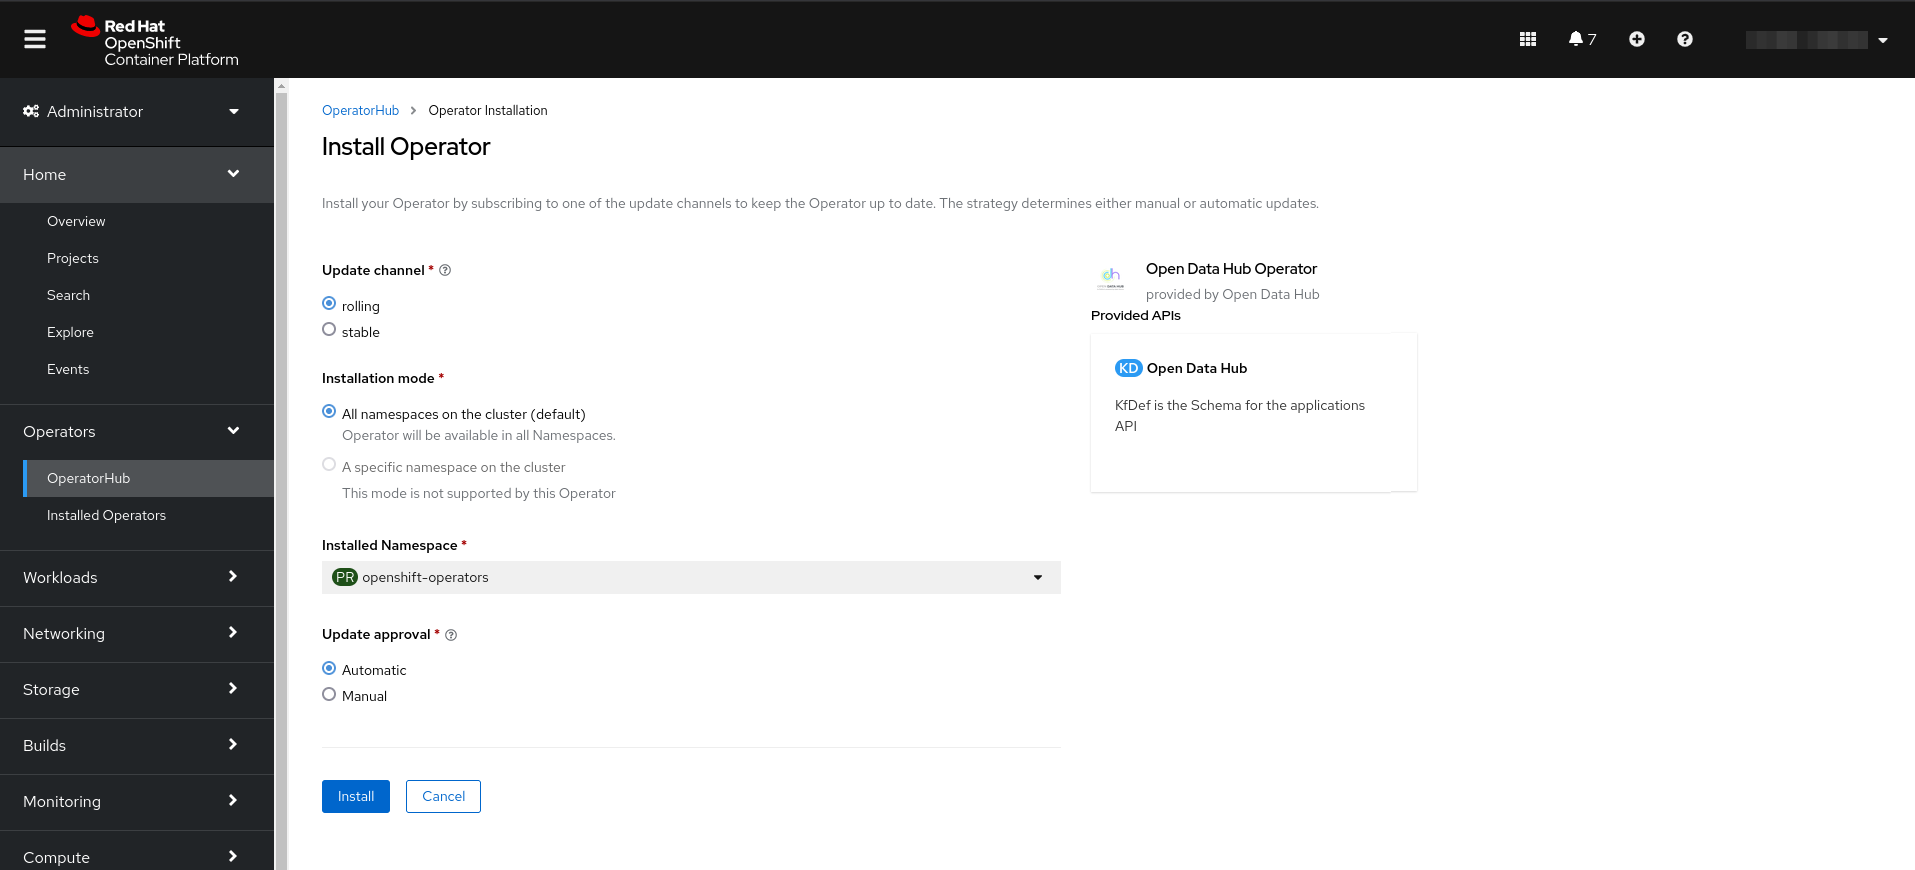
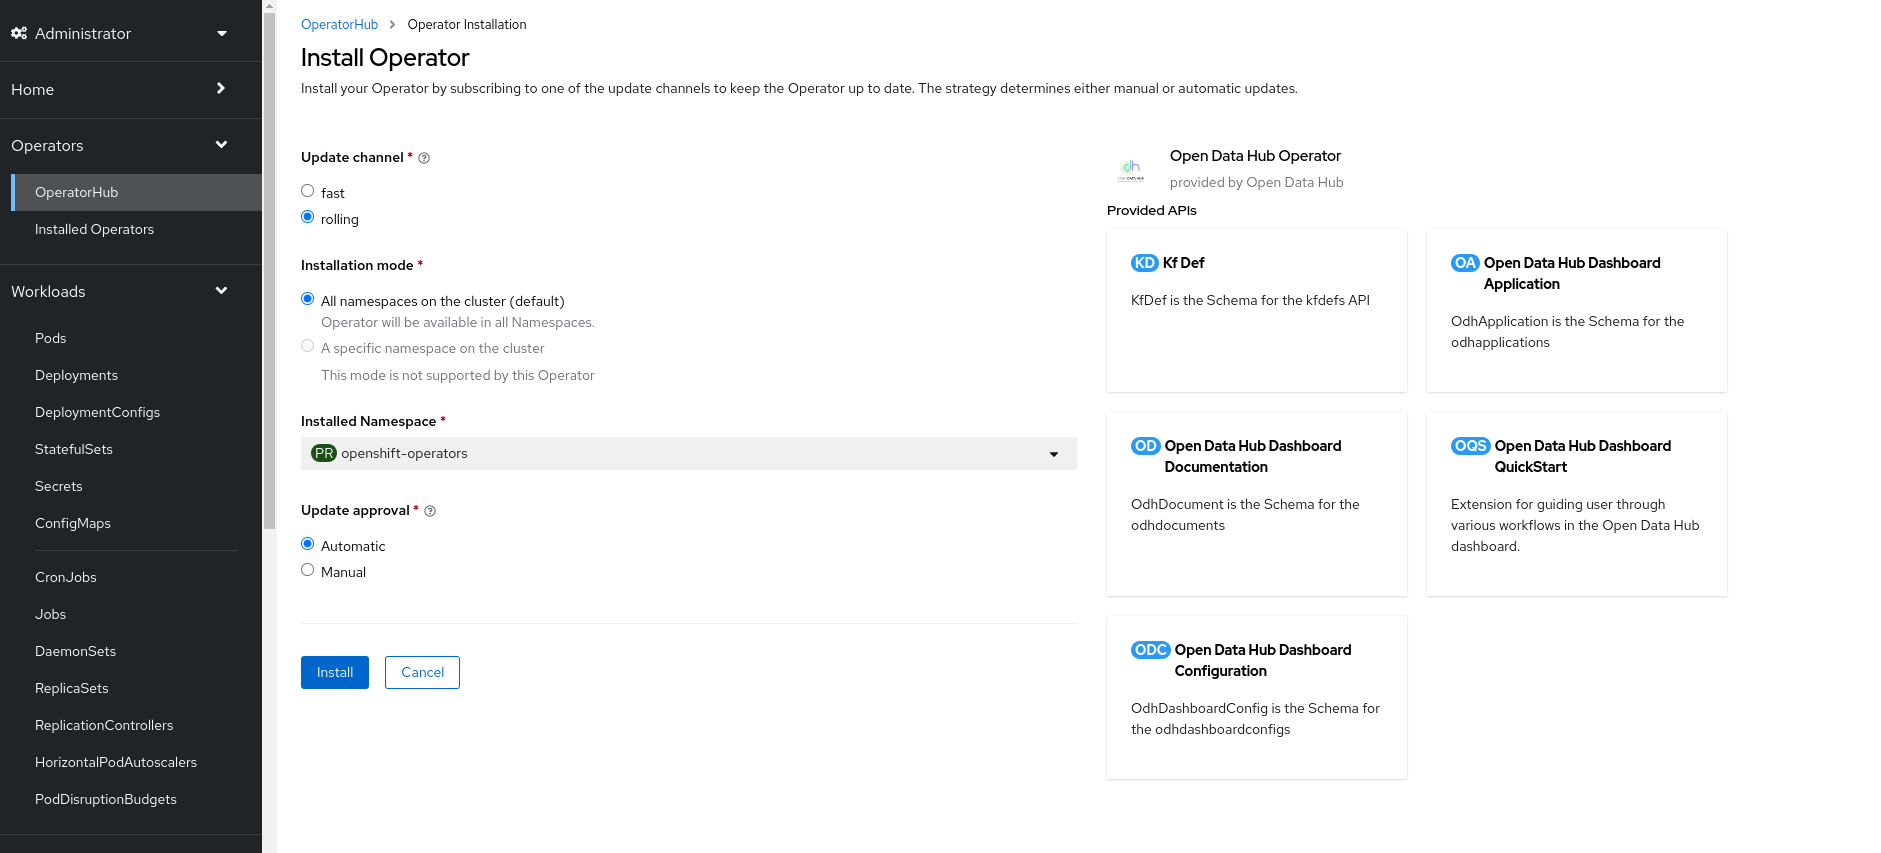
Docs: installation for 2.0.0 release with new operator
- new screenshots + new quick install

diff --git a/src/content/docs/quick-installation-new-operator.md b/src/content/docs/quick-installation-new-operator.md
@@ -1,0 +1,86 @@
+---
+layout: docs
+title: Quick Installation(v2)
+permalink: /docs/getting-started/quick-installation-new-operator
+style_class: quick-installation
+---
+## disclaimer
+
+Version 2.0.0 represents an alpha release, exclusively accessible via the "fast" channel.
+Subsequent releases will transition to the "fast" channel once the new operator attains greater stability.
+
+### Pre-requisites
+
+Blow information is only appliable for Open Data Hub Operator v2.0.0 and forth release.
+
+Installing Open Data Hub requires OpenShift Container Platform version 4.10+.
+All screenshots and instructions are from OpenShift 4.12.
+For the purposes of this quick start, we used [try.openshift.com](https://try.openshift.com/) on AWS.
+
+Tutorials will require an OpenShift cluster with a minimum of 16 CPUS and 32GB of memory across all OpenShift worker nodes.
+
+### Installing the New Open Data Hub Operator
+
+The Open Data Hub operator is available for deployment in the OpenShift OperatorHub as a Community Operators. You can install it from the OpenShift web console by following the steps below:
+
+1. From the OpenShift web console, log in as a user with `cluster-admin` privileges.  For a developer installation from [try.openshift.com](https://try.openshift.com/), the `kubeadmin` user will work.
+   ![Log in to OpenShift](../assets/img/pages/docs/quick-installation/login.png)
+
+2. On the lefthand bar, from `Operators` -> `OperatorHub`,
+   - filter for `Open Data Hub Operator`.
+   - select `AI/Machine Learning` and look for the icon for `Open Data Hub Operator`.
+   ![OperatorHub](../assets/img/pages/docs/quick-installation-new-operator/operator-hub.png "OperatorHub")
+
+3. Click `Continue` in the "Show community Operator" dialog if it pops out. Click the `Install` button to install the Open Data Hub operator.
+   ![Install](../assets/img/pages/docs/quick-installation-new-operator/installation1.png "Install")
+
+4. The subscription creation view will offer a few options including `Update Channel`, keep the `fast` channel selected. Click `Install` to deploy the opendatahub operator into the `openshift-operators` namespace.
+   ![Select Channel](../assets/img/pages/docs/quick-installation-new-operator/channels.png "Select Channel")
+
+5. To view the status of the Open Data Hub operator installation, find the Open Data Hub Operator under `Operators` -> `Installed Operators`. It might take a couple of minutes to show, but once the `Status` field displays `Succeeded`, you can proceed to create a DataScienceCluster instance
+   ![Installed Operators](../assets/img/pages/docs/quick-installation-new-operator/operator-installed.png "Installed Operators")
+
+### Create a DataScienceCluster instance
+
+1. Please ensure to go through [Dependencies](#dependencies) before create new DataScienceCluster instance
+
+2. Click on the `Open Data Hub Operator` from `Installed Operators` page to bring up the details for the version that is currently installed.
+   ![Open Data Hub Operator](../assets/img/pages/docs/quick-installation-new-operator/odh-operator.png "Open Data Hub Operator")
+
+3. Two ways to create DataScienceCluster instance:
+   - Click `Create DataScienceCluster` button from the top warning dialog `DataScienceCluster required(Create a DataScienceCluster instance to use this Operator.)`
+   - Click tab `Data Science Cluster` then click `Create DataScienceCluster` button
+
+   They both lead to a new view called "Create DataScienceCluster". By default, namespace/project `opendatahub` is used to host all applications.
+
+4. In the view of "Create DataScienceCluster", user can create DataScienceCluster instance in two ways with `components` fields.
+   - Configure via "Form view":
+      1. fill in `Name` field
+      2. in the `components` section, by clicking `>` it expands currently supported core components. To enable any component, specifically tick the box in each component section. By default, it will not enable any component.  ![Create DSC2](../assets/img/pages/docs/quick-installation-new-operator/create-dsc-component1.png "Create DSC2")
+
+   - Configure via "YAML view":
+      1. write config in YAML format
+      2. get detail schema by expanding righthand sidebar ![Create DSC1](../assets/img/pages/docs/quick-installation-new-operator/create-dsc-component2.png "Create DSC1")
+      3. read [ODH Core components](../tiered-components) to get the full list of supported components
+
+5. Click `Create` button to finalize creation process in seconds.
+   ![DSC Status](../assets/img/pages/docs/quick-installation-new-operator/dsc-installed.png "DSC Status")
+
+6. Verify the installation by viewing the project workload.
+   Click `Home` then `Projects`, select "opendatahub-system" project, in the `Workloads` tab to view enabled compoenents. These should be running.
+   ![Verify Status](../assets/img/pages/docs/quick-installation-new-operator/verify-install.png "Verify Status")
+
+### Dependencies
+
+- to use "kserve" component, users are required to install two operators via OperatorHub before enable it in DataScienceCluster CR
+   1. Red Hat OpenShift Serverless Operator from "Red Hat" catalog.
+   2. Red Hat OpenShift Service Mesh Operator from "Red Hat" catalog.
+
+- to use "datasciencepipeline" component, users are required to install one operator via OperatorHub before enable it in DataScienceCluster CR
+   1. Red Hat OpenShift Pipelines Operator from "Red Hat" catalog.
+
+- to use "distributedworkloads" component, users are required to install one operator via OperatorHub before enable it in DataScienceCluster CR
+   1. CodeFlare Operator from "Community" catalog.
+
+- to use "modelmesh" component, users are required to install one operator via OperatorHub before enable it in DataScienceCluster CR
+   1. Prometheus Operator from "Community" catalog.

diff --git a/src/content/docs/quick-installation.md b/src/content/docs/quick-installation.md
@@ -1,6 +1,6 @@
 ---
 layout: docs
-title: Quick Installation
+title: Quick Installation(v1)
 permalink: /docs/getting-started/quick-installation
 style_class: quick-installation
 ---
@@ -27,8 +27,14 @@ The Open Data Hub operator is available for deployment in the OpenShift Operator
 1. Click the `Install` button and follow the installation instructions to install the Open Data Hub operator.
    ![Install](../assets/img/pages/docs/quick-installation/install.png "Install")
 
-1. The subscription creation view will offer a few options including *Update Channel*, keep the `rolling` channel selected. Click `Install` to deploy the opendatahub operator into the `openshift-operators` namespace.
+1. The subscription creation view will offer a few options including *Update Channel*, 
+
+**For those who wants to upgrade to new operator(version 2.X)**, please switch to continue reading [here from step 4](../quick-installation-new-operator#installing-the-new-open-data-hub-operator)
+
+**For those who wants to keep using old operator(version 1.X)**, please continue reading: 
+keep the `rolling` channel selected. Click `Install` to deploy the opendatahub operator into the `openshift-operators` namespace.
    ![Select Channel](../assets/img/pages/docs/quick-installation/channels.png "Install")
+
 
 1. Click `View Operator` to navigate to the OpenShift OperatorHub page for the newly install ODH operator.
    ![View Operator](../assets/img/pages/docs/quick-installation/installed-operator-ready-for-use.png "View Installed ODH Operator")
@@ -36,7 +42,7 @@ The Open Data Hub operator is available for deployment in the OpenShift Operator
 1. It is important to switch to the namespace you created earlier. Installing in the "OpenShift Operators" namespace will result in a fatal error similar to "csv created in namespace with multiple operatorgroups, can't pick one automatically".
    ![Change Namespace to 'odh'](../assets/img/pages/docs/quick-installation/installed-operators-change-namespace.png "Change Namespace to 'odh'")
 
-1. To view the status of the Open Data Hub operator installation, find the Open Data Hub Operator under `Operators` -> `Installed Operators` (inside the namespace you created earlier). Once the STATUS field displays `InstallSucceeded`, you can proceed to create a new Open Data Hub deployment.
+1. To view the status of the Open Data Hub operator installation, find the Open Data Hub Operator under `Operators` -> `Installed Operators` (inside the namespace you created earlier). Once the STATUS field displays `Succeeded`, you can proceed to create a new Open Data Hub deployment.
    ![Installed Operators](../assets/img/pages/docs/quick-installation/installed-operators.png "Installed Operators")
 
 ### Create a New Open Data Hub Deployment
@@ -57,3 +63,29 @@ The Open Data Hub operator will create new Open Data Hub deployments and manage 
 
 1. Verify the installation by viewing the project workload.  The [ODH Core components](../tiered-components) should be running.
    ![Verify Status](../assets/img/pages/docs/quick-installation/verify-install.png "Verify Status")
+
+### Upgrade to new operator(version 2.X)
+
+If you are currently having version 1.X installed and prefer upgrading to new operator 2.X, please follow below instruction:
+
+- Login from the OpenShift web console with `cluster-admin` privileges
+- Go to `Operator` -> `Installed Operators`, choose `Open Data Hub Operator` which is on 1.X version.
+- Click `Subscription` tab
+- In the `Update channel` section, you should see `rolling` as the current channel.
+![change channel](../assets/img/pages/docs/quick-installation/change-channel.png "change channel")
+
+- Click `pencil` icon next to `rolling`, in the popup window `Change Subscription update channel`, tick `fast` icon, then `Save` your option.
+- If you have `Update approval` already configed to `Automatic`, you should see `Upgrade status` change to `1 installing` in minutes.
+- The rest steps, please refer to [here from step 5](../quick-installation-new-operator#installing-the-new-open-data-hub-operator)
+
+#### disclaimer
+
+1. Version 2.0.0 represents an alpha release, exclusively accessible via the "fast" channel.
+
+Subsequent releases will transition to the "rolling" channel once the new operator attains greater stability.
+
+2. During the installation of the new operator (v2.X), applications will not be automatically updated from v1.X to v2.X.
+
+Users will need to create a DataScienceCluster instance and enable specific components based on their requirements.
+
+3. If the current application namespace for v1.X is not "opendatahub" , users must scale down the components first.
